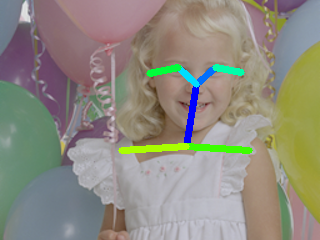
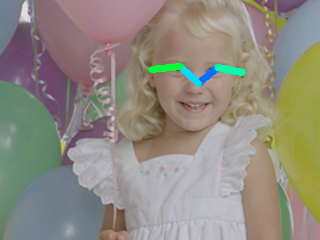
Added description about threshold, Update output image

Changed region(s): [[0.375, 0.2625, 0.8125, 0.6417]]

diff --git a/pose_estimation/openpose/README.md b/pose_estimation/openpose/README.md
@@ -43,6 +43,12 @@ If you pass `0` as an argument to VIDEO_PATH, you can use the webcam input inste
 $ python3 openpose.py --video VIDEO_PATH
 ```
 
+Also you can set detection threshold by adding the `--threshold` option.
+Default value is 0.4.
+
+```bash
+$ python3 openpose.py --threshold 0.2
+```
 
 ## Reference
 
